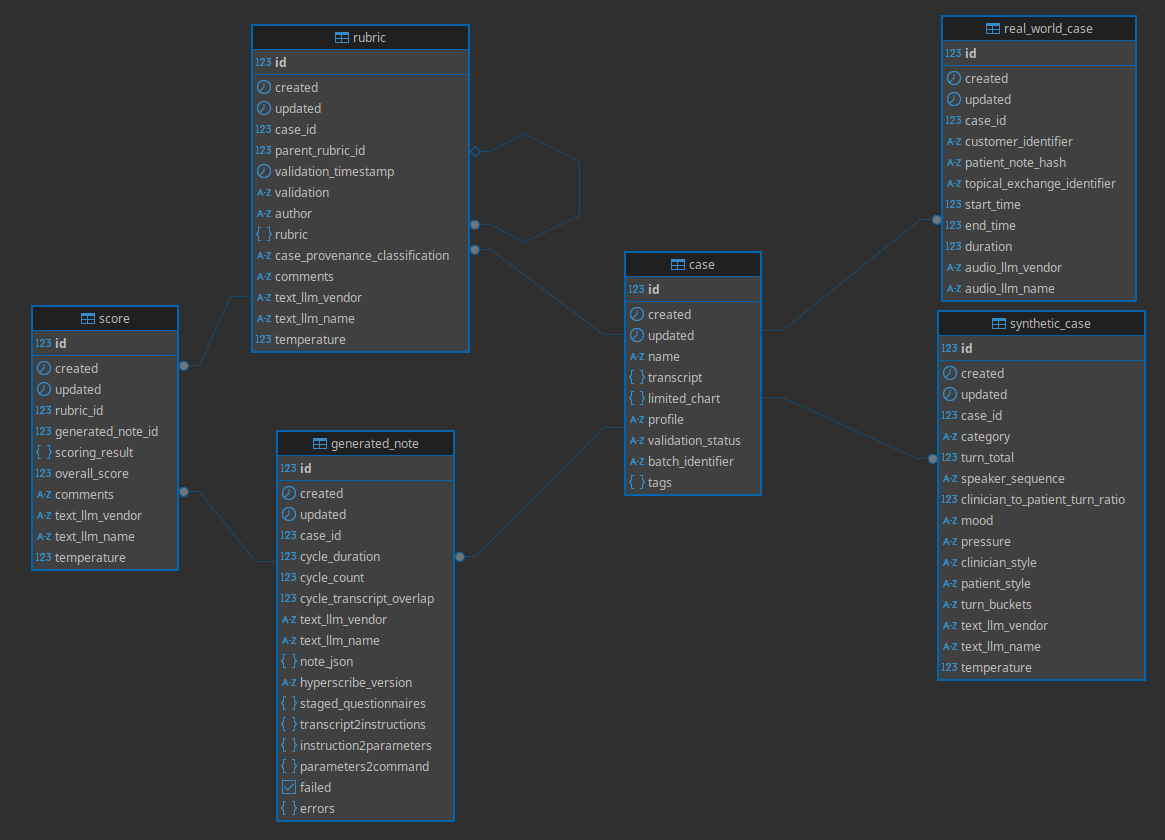
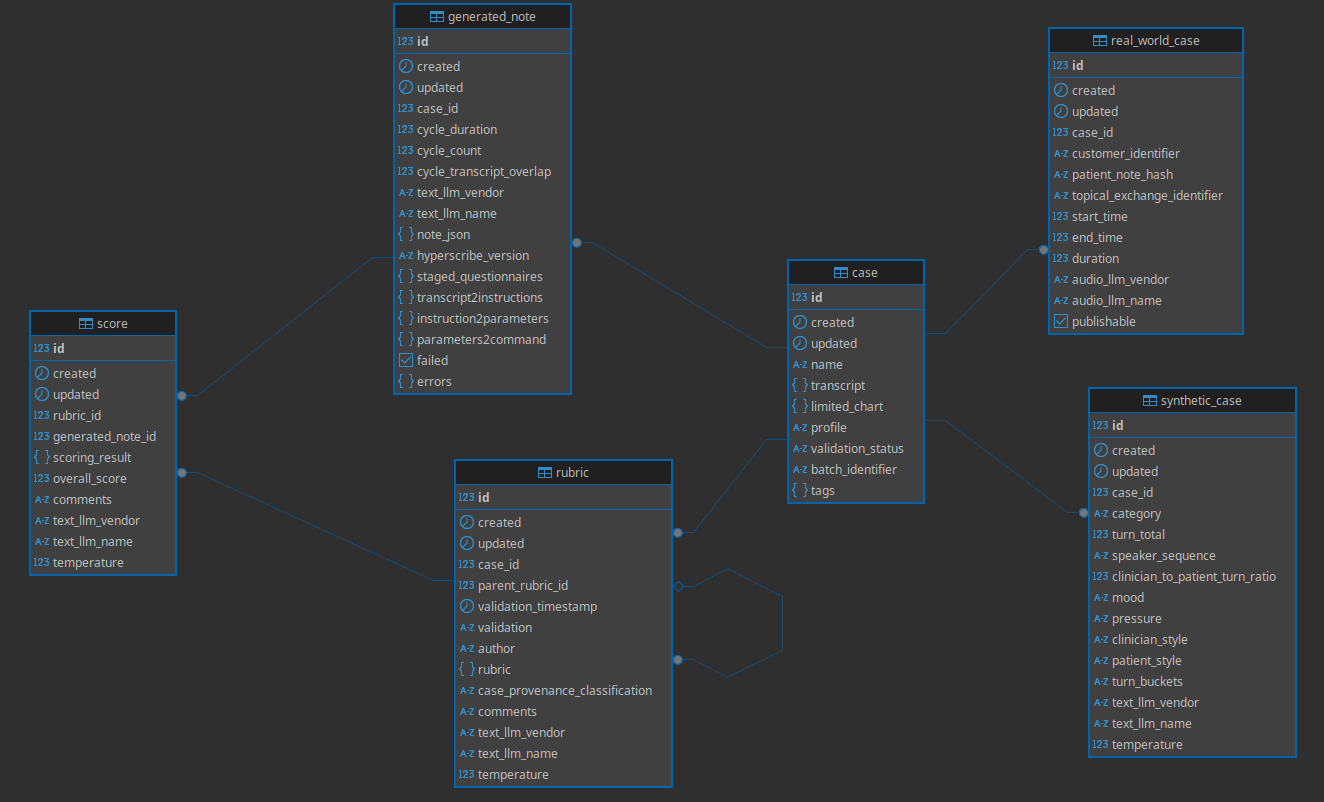
add publishable field to real_world_case Postgres table (issue #52)

diff --git a/tests/evaluations/datastores/postgres/test_real_world_case.py b/tests/evaluations/datastores/postgres/test_real_world_case.py
@@ -38,6 +38,7 @@ def test_upsert(select, alter, mock_datetime):
         customer_identifier="theCustomerIdentifier",
         patient_note_hash="thePatientNoteHash",
         topical_exchange_identifier="theTopicalExchangeIdentifier",
+        publishable=True,
         start_time=31.25,
         end_time=74.36,
         duration=43.11,
@@ -50,6 +51,7 @@ def test_upsert(select, alter, mock_datetime):
         customer_identifier="theCustomerIdentifier",
         patient_note_hash="thePatientNoteHash",
         topical_exchange_identifier="theTopicalExchangeIdentifier",
+        publishable=True,
         start_time=31.25,
         end_time=74.36,
         duration=43.11,
@@ -79,10 +81,10 @@ def test_upsert(select, alter, mock_datetime):
     assert len(alter.mock_calls) == 1
     sql, params, involved_id = alter.mock_calls[0].args
     exp_sql = ('INSERT INTO "real_world_case" ("created", "updated", "case_id", "customer_identifier", '
-               ' "patient_note_hash", "topical_exchange_identifier", "start_time", "end_time", '
+               ' "patient_note_hash", "topical_exchange_identifier", "publishable", "start_time", "end_time", '
                ' "duration", "audio_llm_vendor", "audio_llm_name") '
                'VALUES (%(now)s, %(now)s, %(case_id)s, %(customer_identifier)s, '
-               ' %(patient_note_hash)s, %(topical_exchange_identifier)s, %(start_time)s, %(end_time)s, '
+               ' %(patient_note_hash)s, %(topical_exchange_identifier)s, %(publishable)s, %(start_time)s, %(end_time)s, '
                ' %(duration)s, %(audio_llm_vendor)s, %(audio_llm_name)s) '
                'RETURNING id')
     assert compare_sql(sql, exp_sql)
@@ -97,6 +99,7 @@ def test_upsert(select, alter, mock_datetime):
         'patient_note_hash': 'thePatientNoteHash',
         'start_time': 31.25,
         'topical_exchange_identifier': 'theTopicalExchangeIdentifier',
+        'publishable': True,
     }
     assert params == exp_params
     assert involved_id is None
@@ -123,12 +126,13 @@ def test_upsert(select, alter, mock_datetime):
     sql, params, involved_id = alter.mock_calls[0].args
     exp_sql = ('UPDATE "real_world_case" SET "updated"=%(now)s, "customer_identifier"=%(customer_identifier)s, '
                ' "patient_note_hash"=%(patient_note_hash)s, "topical_exchange_identifier"=%(topical_exchange_identifier)s, '
-               ' "start_time"=%(start_time)s, "end_time"=%(end_time)s, "duration"=%(duration)s, '
+               ' "publishable"=%(publishable)s, "start_time"=%(start_time)s, "end_time"=%(end_time)s, "duration"=%(duration)s, '
                ' "audio_llm_vendor"=%(audio_llm_vendor)s, "audio_llm_name"=%(audio_llm_name)s '
                'WHERE "id" = %(id)s AND ( '
                ' "customer_identifier" <> %(customer_identifier)s OR '
                ' "patient_note_hash" <> %(patient_note_hash)s OR '
                ' "topical_exchange_identifier" <> %(topical_exchange_identifier)s OR '
+               ' "publishable" <> %(publishable)s OR '
                ' "start_time" <> %(start_time)s OR '
                ' "end_time" <> %(end_time)s OR '
                ' "duration" <> %(duration)s OR '
@@ -147,6 +151,7 @@ def test_upsert(select, alter, mock_datetime):
         'patient_note_hash': 'thePatientNoteHash',
         'start_time': 31.25,
         'topical_exchange_identifier': 'theTopicalExchangeIdentifier',
+        'publishable': True,
     }
     assert params == exp_params
     assert involved_id == 147

diff --git a/evaluations/datastores/postgres/real_world_case.py b/evaluations/datastores/postgres/real_world_case.py
@@ -13,6 +13,7 @@ class RealWorldCase(Postgres):
             "customer_identifier": case.customer_identifier,
             "patient_note_hash": case.patient_note_hash,
             "topical_exchange_identifier": case.topical_exchange_identifier,
+            "publishable": case.publishable,
             "start_time": case.start_time,
             "end_time": case.end_time,
             "duration": case.duration,
@@ -30,6 +31,7 @@ class RealWorldCase(Postgres):
                       "customer_identifier"=%(customer_identifier)s,
                       "patient_note_hash"=%(patient_note_hash)s,
                       "topical_exchange_identifier"=%(topical_exchange_identifier)s,
+                      "publishable"=%(publishable)s,
                       "start_time"=%(start_time)s,
                       "end_time"=%(end_time)s,
                       "duration"=%(duration)s,
@@ -40,6 +42,7 @@ class RealWorldCase(Postgres):
                       "customer_identifier" <> %(customer_identifier)s OR
                       "patient_note_hash" <> %(patient_note_hash)s OR
                       "topical_exchange_identifier" <> %(topical_exchange_identifier)s OR
+                      "publishable" <> %(publishable)s OR
                       "start_time" <> %(start_time)s OR
                       "end_time" <> %(end_time)s OR
                       "duration" <> %(duration)s OR
@@ -49,10 +52,10 @@ class RealWorldCase(Postgres):
         else:
             sql = """
                   INSERT INTO "real_world_case" ("created", "updated", "case_id", "customer_identifier", "patient_note_hash",
-                                                 "topical_exchange_identifier",
+                                                 "topical_exchange_identifier", "publishable",
                                                  "start_time", "end_time", "duration", "audio_llm_vendor", "audio_llm_name")
                   VALUES (%(now)s, %(now)s, %(case_id)s, %(customer_identifier)s,
-                          %(patient_note_hash)s, %(topical_exchange_identifier)s,
+                          %(patient_note_hash)s, %(topical_exchange_identifier)s, %(publishable)s,
                           %(start_time)s, %(end_time)s, %(duration)s, %(audio_llm_vendor)s, %(audio_llm_name)s) RETURNING id"""
 
         return Record(
@@ -61,6 +64,7 @@ class RealWorldCase(Postgres):
             customer_identifier=case.customer_identifier,
             patient_note_hash=case.patient_note_hash,
             topical_exchange_identifier=case.topical_exchange_identifier,
+            publishable=case.publishable,
             start_time=case.start_time,
             end_time=case.end_time,
             duration=case.duration,

diff --git a/tests/evaluations/structures/records/test_real_world_case.py b/tests/evaluations/structures/records/test_real_world_case.py
@@ -9,6 +9,7 @@ def test_class():
         "customer_identifier": str,
         "patient_note_hash": str,
         "topical_exchange_identifier": str,
+        "publishable": bool,
         "start_time": float,
         "end_time": float,
         "duration": float,
@@ -25,6 +26,7 @@ def test_default():
     assert result.customer_identifier == ""
     assert result.patient_note_hash == ""
     assert result.topical_exchange_identifier == ""
+    assert result.publishable is False
     assert result.start_time == 0.0
     assert result.end_time == 0.0
     assert result.duration == 0.0

diff --git a/evaluations/case_builders/builder_direct_from_tuning.py b/evaluations/case_builders/builder_direct_from_tuning.py
@@ -118,6 +118,7 @@ class BuilderDirectFromTuning:
             customer_identifier=self.identification.canvas_instance,
             patient_note_hash=f"patient_{self.identification.patient_uuid}/note_{self.identification.note_uuid}",
             topical_exchange_identifier=case_summary.title,
+            publishable=False,
             start_time=0.0,
             end_time=0.0,
             duration=0.0,

diff --git a/tests/evaluations/case_builders/test_builder_direct_from_tuning.py b/tests/evaluations/case_builders/test_builder_direct_from_tuning.py
@@ -426,6 +426,7 @@ def test_generate_case(
                 customer_identifier='canvasInstance',
                 patient_note_hash='patient_patientUuid/note_noteUuid',
                 topical_exchange_identifier='theTitle',
+                publishable=False,
                 start_time=0.0,
                 end_time=0.0,
                 duration=0.0,

diff --git a/evaluations/structures/records/real_world_case.py b/evaluations/structures/records/real_world_case.py
@@ -7,6 +7,7 @@ class RealWorldCase(NamedTuple):
     customer_identifier: str = ""
     patient_note_hash: str = ""
     topical_exchange_identifier: str = ""
+    publishable: bool = False
     start_time: float = 0.0
     end_time: float = 0.0
     duration: float = 0.0
